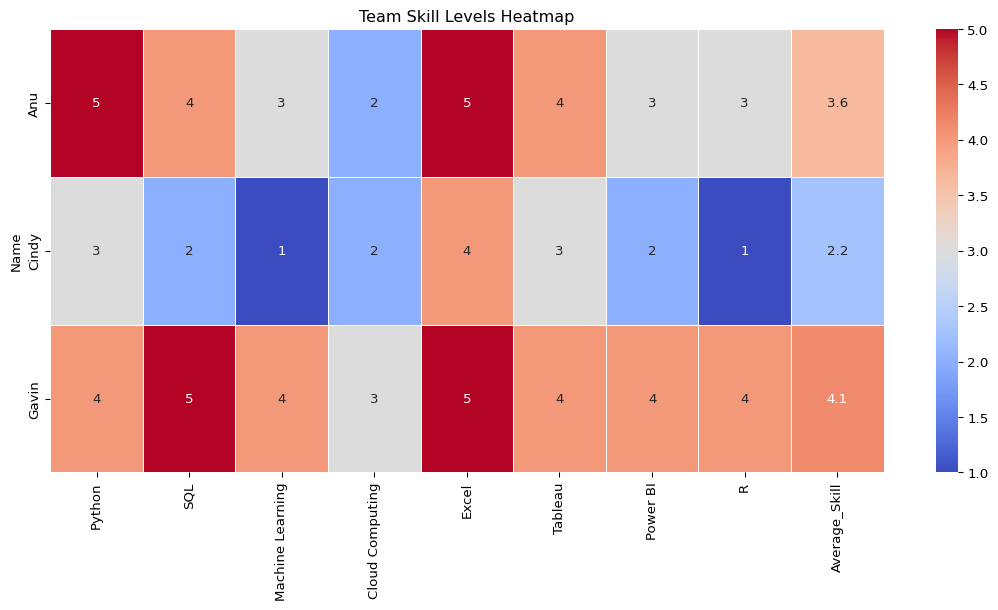
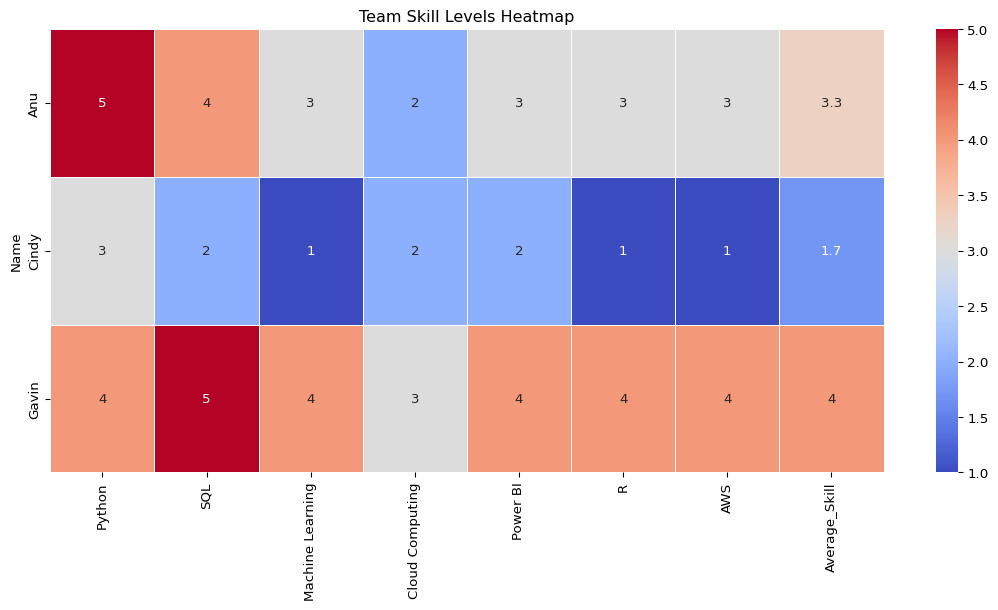
updated skill gap analysis visualization and project output directory

diff --git a/docs/skill_gap_analysis.html b/docs/skill_gap_analysis.html
@@ -212,7 +212,7 @@ pre > code.sourceCode > span > a:first-child::before { text-decoration: underlin
 <section id="team-dataframe" class="level1" data-number="1">
 <h1 data-number="1"><span class="header-section-number">1</span> Team Dataframe</h1>
 <p>Our team conducted an overview of our current technical skills when it comes to Business Analytics and our skill levels. The goal was to understand where the group’s strengths and weaknesses were, and understand how the data that was collected could relate to the data that was observed in the research conducted. This was used to identify strengths and weaknesses for the group while also identifying potential gaps within the group.</p>
-<div id="50641b31" class="cell" data-execution_count="1">
+<div id="d3172800" class="cell" data-execution_count="1">
 <details class="code-fold">
 <summary>Code</summary>
 <div class="sourceCode cell-code" id="cb1"><pre class="sourceCode python code-with-copy"><code class="sourceCode python"><span id="cb1-1"><a href="#cb1-1" aria-hidden="true" tabindex="-1"></a><span class="im">import</span> pandas <span class="im">as</span> pd</span>
@@ -224,55 +224,53 @@ pre > code.sourceCode > span > a:first-child::before { text-decoration: underlin
 <span id="cb1-7"><a href="#cb1-7" aria-hidden="true" tabindex="-1"></a>    <span class="st">"SQL"</span>: [<span class="dv">4</span>, <span class="dv">2</span>, <span class="dv">5</span>],</span>
 <span id="cb1-8"><a href="#cb1-8" aria-hidden="true" tabindex="-1"></a>    <span class="st">"Machine Learning"</span>: [<span class="dv">3</span>, <span class="dv">1</span>, <span class="dv">4</span>],</span>
 <span id="cb1-9"><a href="#cb1-9" aria-hidden="true" tabindex="-1"></a>    <span class="st">"Cloud Computing"</span>: [<span class="dv">2</span>, <span class="dv">2</span>, <span class="dv">3</span>],</span>
-<span id="cb1-10"><a href="#cb1-10" aria-hidden="true" tabindex="-1"></a>    <span class="st">"Excel"</span>: [<span class="dv">5</span>, <span class="dv">4</span>, <span class="dv">5</span>],</span>
-<span id="cb1-11"><a href="#cb1-11" aria-hidden="true" tabindex="-1"></a>    <span class="st">"Tableau"</span>: [<span class="dv">4</span>, <span class="dv">3</span>, <span class="dv">4</span>],</span>
-<span id="cb1-12"><a href="#cb1-12" aria-hidden="true" tabindex="-1"></a>    <span class="st">"Power BI"</span>: [<span class="dv">3</span>, <span class="dv">2</span>, <span class="dv">4</span>],</span>
-<span id="cb1-13"><a href="#cb1-13" aria-hidden="true" tabindex="-1"></a>    <span class="st">"R"</span>: [<span class="dv">3</span>, <span class="dv">1</span>, <span class="dv">4</span>]</span>
-<span id="cb1-14"><a href="#cb1-14" aria-hidden="true" tabindex="-1"></a>}</span>
-<span id="cb1-15"><a href="#cb1-15" aria-hidden="true" tabindex="-1"></a></span>
-<span id="cb1-16"><a href="#cb1-16" aria-hidden="true" tabindex="-1"></a><span class="co"># Create DataFrame and set index</span></span>
-<span id="cb1-17"><a href="#cb1-17" aria-hidden="true" tabindex="-1"></a>df_skills <span class="op">=</span> pd.DataFrame(skills_data).set_index(<span class="st">"Name"</span>)</span>
-<span id="cb1-18"><a href="#cb1-18" aria-hidden="true" tabindex="-1"></a></span>
-<span id="cb1-19"><a href="#cb1-19" aria-hidden="true" tabindex="-1"></a><span class="co"># Ensure all columns are numeric</span></span>
-<span id="cb1-20"><a href="#cb1-20" aria-hidden="true" tabindex="-1"></a>df_skills <span class="op">=</span> df_skills.<span class="bu">apply</span>(pd.to_numeric)</span>
-<span id="cb1-21"><a href="#cb1-21" aria-hidden="true" tabindex="-1"></a></span>
-<span id="cb1-22"><a href="#cb1-22" aria-hidden="true" tabindex="-1"></a><span class="co"># Add average skill score across all tools</span></span>
-<span id="cb1-23"><a href="#cb1-23" aria-hidden="true" tabindex="-1"></a>df_skills[<span class="st">"Average_Skill"</span>] <span class="op">=</span> df_skills.mean(axis<span class="op">=</span><span class="dv">1</span>)</span>
-<span id="cb1-24"><a href="#cb1-24" aria-hidden="true" tabindex="-1"></a></span>
-<span id="cb1-25"><a href="#cb1-25" aria-hidden="true" tabindex="-1"></a><span class="co"># Style with borders and centered text</span></span>
-<span id="cb1-26"><a href="#cb1-26" aria-hidden="true" tabindex="-1"></a>df_styled <span class="op">=</span> df_skills.style.set_table_styles([</span>
-<span id="cb1-27"><a href="#cb1-27" aria-hidden="true" tabindex="-1"></a>    {<span class="st">'selector'</span>: <span class="st">'th, td'</span>, <span class="st">'props'</span>: [(<span class="st">'border'</span>, <span class="st">'1px solid black'</span>),</span>
-<span id="cb1-28"><a href="#cb1-28" aria-hidden="true" tabindex="-1"></a>                                     (<span class="st">'text-align'</span>, <span class="st">'center'</span>)]}</span>
-<span id="cb1-29"><a href="#cb1-29" aria-hidden="true" tabindex="-1"></a>])</span>
-<span id="cb1-30"><a href="#cb1-30" aria-hidden="true" tabindex="-1"></a></span>
-<span id="cb1-31"><a href="#cb1-31" aria-hidden="true" tabindex="-1"></a>df_styled</span></code><button title="Copy to Clipboard" class="code-copy-button"><i class="bi"></i></button></pre></div>
+<span id="cb1-10"><a href="#cb1-10" aria-hidden="true" tabindex="-1"></a>    <span class="st">"Power BI"</span>: [<span class="dv">3</span>, <span class="dv">2</span>, <span class="dv">4</span>],</span>
+<span id="cb1-11"><a href="#cb1-11" aria-hidden="true" tabindex="-1"></a>    <span class="st">"R"</span>: [<span class="dv">3</span>, <span class="dv">1</span>, <span class="dv">4</span>],</span>
+<span id="cb1-12"><a href="#cb1-12" aria-hidden="true" tabindex="-1"></a>    <span class="st">"AWS"</span>: [<span class="dv">3</span>,<span class="dv">1</span>,<span class="dv">4</span>]</span>
+<span id="cb1-13"><a href="#cb1-13" aria-hidden="true" tabindex="-1"></a>}</span>
+<span id="cb1-14"><a href="#cb1-14" aria-hidden="true" tabindex="-1"></a></span>
+<span id="cb1-15"><a href="#cb1-15" aria-hidden="true" tabindex="-1"></a><span class="co"># Create DataFrame and set index</span></span>
+<span id="cb1-16"><a href="#cb1-16" aria-hidden="true" tabindex="-1"></a>df_skills <span class="op">=</span> pd.DataFrame(skills_data).set_index(<span class="st">"Name"</span>)</span>
+<span id="cb1-17"><a href="#cb1-17" aria-hidden="true" tabindex="-1"></a></span>
+<span id="cb1-18"><a href="#cb1-18" aria-hidden="true" tabindex="-1"></a><span class="co"># Ensure all columns are numeric</span></span>
+<span id="cb1-19"><a href="#cb1-19" aria-hidden="true" tabindex="-1"></a>df_skills <span class="op">=</span> df_skills.<span class="bu">apply</span>(pd.to_numeric)</span>
+<span id="cb1-20"><a href="#cb1-20" aria-hidden="true" tabindex="-1"></a></span>
+<span id="cb1-21"><a href="#cb1-21" aria-hidden="true" tabindex="-1"></a><span class="co"># Add average skill score across all tools</span></span>
+<span id="cb1-22"><a href="#cb1-22" aria-hidden="true" tabindex="-1"></a>df_skills[<span class="st">"Average_Skill"</span>] <span class="op">=</span> df_skills.mean(axis<span class="op">=</span><span class="dv">1</span>)</span>
+<span id="cb1-23"><a href="#cb1-23" aria-hidden="true" tabindex="-1"></a></span>
+<span id="cb1-24"><a href="#cb1-24" aria-hidden="true" tabindex="-1"></a><span class="co"># Style with borders and centered text</span></span>
+<span id="cb1-25"><a href="#cb1-25" aria-hidden="true" tabindex="-1"></a>df_styled <span class="op">=</span> df_skills.style.set_table_styles([</span>
+<span id="cb1-26"><a href="#cb1-26" aria-hidden="true" tabindex="-1"></a>    {<span class="st">'selector'</span>: <span class="st">'th, td'</span>, <span class="st">'props'</span>: [(<span class="st">'border'</span>, <span class="st">'1px solid black'</span>),</span>
+<span id="cb1-27"><a href="#cb1-27" aria-hidden="true" tabindex="-1"></a>                                     (<span class="st">'text-align'</span>, <span class="st">'center'</span>)]}</span>
+<span id="cb1-28"><a href="#cb1-28" aria-hidden="true" tabindex="-1"></a>])</span>
+<span id="cb1-29"><a href="#cb1-29" aria-hidden="true" tabindex="-1"></a></span>
+<span id="cb1-30"><a href="#cb1-30" aria-hidden="true" tabindex="-1"></a>df_styled</span></code><button title="Copy to Clipboard" class="code-copy-button"><i class="bi"></i></button></pre></div>
 </details>
-<div class="cell-output cell-output-display" data-execution_count="5">
+<div class="cell-output cell-output-display" data-execution_count="7">
 <div>
 <style type="text/css">
-#T_4b7c6 th {
+#T_bf325 th {
   border: 1px solid black;
   text-align: center;
 }
-#T_4b7c6  td {
+#T_bf325  td {
   border: 1px solid black;
   text-align: center;
 }
 </style>
 
-<table id="T_4b7c6" data-quarto-postprocess="true" class="table table-sm table-striped small">
+<table id="T_bf325" data-quarto-postprocess="true" class="table table-sm table-striped small">
 <thead>
 <tr class="header">
 <th class="blank level0" data-quarto-table-cell-role="th">&nbsp;</th>
-<th id="T_4b7c6_level0_col0" class="col_heading level0 col0" data-quarto-table-cell-role="th">Python</th>
-<th id="T_4b7c6_level0_col1" class="col_heading level0 col1" data-quarto-table-cell-role="th">SQL</th>
-<th id="T_4b7c6_level0_col2" class="col_heading level0 col2" data-quarto-table-cell-role="th">Machine Learning</th>
-<th id="T_4b7c6_level0_col3" class="col_heading level0 col3" data-quarto-table-cell-role="th">Cloud Computing</th>
-<th id="T_4b7c6_level0_col4" class="col_heading level0 col4" data-quarto-table-cell-role="th">Excel</th>
-<th id="T_4b7c6_level0_col5" class="col_heading level0 col5" data-quarto-table-cell-role="th">Tableau</th>
-<th id="T_4b7c6_level0_col6" class="col_heading level0 col6" data-quarto-table-cell-role="th">Power BI</th>
-<th id="T_4b7c6_level0_col7" class="col_heading level0 col7" data-quarto-table-cell-role="th">R</th>
-<th id="T_4b7c6_level0_col8" class="col_heading level0 col8" data-quarto-table-cell-role="th">Average_Skill</th>
+<th id="T_bf325_level0_col0" class="col_heading level0 col0" data-quarto-table-cell-role="th">Python</th>
+<th id="T_bf325_level0_col1" class="col_heading level0 col1" data-quarto-table-cell-role="th">SQL</th>
+<th id="T_bf325_level0_col2" class="col_heading level0 col2" data-quarto-table-cell-role="th">Machine Learning</th>
+<th id="T_bf325_level0_col3" class="col_heading level0 col3" data-quarto-table-cell-role="th">Cloud Computing</th>
+<th id="T_bf325_level0_col4" class="col_heading level0 col4" data-quarto-table-cell-role="th">Power BI</th>
+<th id="T_bf325_level0_col5" class="col_heading level0 col5" data-quarto-table-cell-role="th">R</th>
+<th id="T_bf325_level0_col6" class="col_heading level0 col6" data-quarto-table-cell-role="th">AWS</th>
+<th id="T_bf325_level0_col7" class="col_heading level0 col7" data-quarto-table-cell-role="th">Average_Skill</th>
 </tr>
 <tr class="odd">
 <th class="index_name level0" data-quarto-table-cell-role="th">Name</th>
@@ -284,52 +282,48 @@ pre > code.sourceCode > span > a:first-child::before { text-decoration: underlin
 <th class="blank col5" data-quarto-table-cell-role="th">&nbsp;</th>
 <th class="blank col6" data-quarto-table-cell-role="th">&nbsp;</th>
 <th class="blank col7" data-quarto-table-cell-role="th">&nbsp;</th>
-<th class="blank col8" data-quarto-table-cell-role="th">&nbsp;</th>
 </tr>
 </thead>
 <tbody>
 <tr class="odd">
-<td id="T_4b7c6_level0_row0" class="row_heading level0 row0" data-quarto-table-cell-role="th">Anu</td>
-<td id="T_4b7c6_row0_col0" class="data row0 col0">5</td>
-<td id="T_4b7c6_row0_col1" class="data row0 col1">4</td>
-<td id="T_4b7c6_row0_col2" class="data row0 col2">3</td>
-<td id="T_4b7c6_row0_col3" class="data row0 col3">2</td>
-<td id="T_4b7c6_row0_col4" class="data row0 col4">5</td>
-<td id="T_4b7c6_row0_col5" class="data row0 col5">4</td>
-<td id="T_4b7c6_row0_col6" class="data row0 col6">3</td>
-<td id="T_4b7c6_row0_col7" class="data row0 col7">3</td>
-<td id="T_4b7c6_row0_col8" class="data row0 col8">3.625000</td>
+<td id="T_bf325_level0_row0" class="row_heading level0 row0" data-quarto-table-cell-role="th">Anu</td>
+<td id="T_bf325_row0_col0" class="data row0 col0">5</td>
+<td id="T_bf325_row0_col1" class="data row0 col1">4</td>
+<td id="T_bf325_row0_col2" class="data row0 col2">3</td>
+<td id="T_bf325_row0_col3" class="data row0 col3">2</td>
+<td id="T_bf325_row0_col4" class="data row0 col4">3</td>
+<td id="T_bf325_row0_col5" class="data row0 col5">3</td>
+<td id="T_bf325_row0_col6" class="data row0 col6">3</td>
+<td id="T_bf325_row0_col7" class="data row0 col7">3.285714</td>
 </tr>
 <tr class="even">
-<td id="T_4b7c6_level0_row1" class="row_heading level0 row1" data-quarto-table-cell-role="th">Cindy</td>
-<td id="T_4b7c6_row1_col0" class="data row1 col0">3</td>
-<td id="T_4b7c6_row1_col1" class="data row1 col1">2</td>
-<td id="T_4b7c6_row1_col2" class="data row1 col2">1</td>
-<td id="T_4b7c6_row1_col3" class="data row1 col3">2</td>
-<td id="T_4b7c6_row1_col4" class="data row1 col4">4</td>
-<td id="T_4b7c6_row1_col5" class="data row1 col5">3</td>
-<td id="T_4b7c6_row1_col6" class="data row1 col6">2</td>
-<td id="T_4b7c6_row1_col7" class="data row1 col7">1</td>
-<td id="T_4b7c6_row1_col8" class="data row1 col8">2.250000</td>
+<td id="T_bf325_level0_row1" class="row_heading level0 row1" data-quarto-table-cell-role="th">Cindy</td>
+<td id="T_bf325_row1_col0" class="data row1 col0">3</td>
+<td id="T_bf325_row1_col1" class="data row1 col1">2</td>
+<td id="T_bf325_row1_col2" class="data row1 col2">1</td>
+<td id="T_bf325_row1_col3" class="data row1 col3">2</td>
+<td id="T_bf325_row1_col4" class="data row1 col4">2</td>
+<td id="T_bf325_row1_col5" class="data row1 col5">1</td>
+<td id="T_bf325_row1_col6" class="data row1 col6">1</td>
+<td id="T_bf325_row1_col7" class="data row1 col7">1.714286</td>
 </tr>
 <tr class="odd">
-<td id="T_4b7c6_level0_row2" class="row_heading level0 row2" data-quarto-table-cell-role="th">Gavin</td>
-<td id="T_4b7c6_row2_col0" class="data row2 col0">4</td>
-<td id="T_4b7c6_row2_col1" class="data row2 col1">5</td>
-<td id="T_4b7c6_row2_col2" class="data row2 col2">4</td>
-<td id="T_4b7c6_row2_col3" class="data row2 col3">3</td>
-<td id="T_4b7c6_row2_col4" class="data row2 col4">5</td>
-<td id="T_4b7c6_row2_col5" class="data row2 col5">4</td>
-<td id="T_4b7c6_row2_col6" class="data row2 col6">4</td>
-<td id="T_4b7c6_row2_col7" class="data row2 col7">4</td>
-<td id="T_4b7c6_row2_col8" class="data row2 col8">4.125000</td>
+<td id="T_bf325_level0_row2" class="row_heading level0 row2" data-quarto-table-cell-role="th">Gavin</td>
+<td id="T_bf325_row2_col0" class="data row2 col0">4</td>
+<td id="T_bf325_row2_col1" class="data row2 col1">5</td>
+<td id="T_bf325_row2_col2" class="data row2 col2">4</td>
+<td id="T_bf325_row2_col3" class="data row2 col3">3</td>
+<td id="T_bf325_row2_col4" class="data row2 col4">4</td>
+<td id="T_bf325_row2_col5" class="data row2 col5">4</td>
+<td id="T_bf325_row2_col6" class="data row2 col6">4</td>
+<td id="T_bf325_row2_col7" class="data row2 col7">4.000000</td>
 </tr>
 </tbody>
 </table>
 </div>
 </div>
 </div>
-<div id="6c4276a1" class="cell" data-execution_count="2">
+<div id="d0804f13" class="cell" data-execution_count="2">
 <details class="code-fold">
 <summary>Code</summary>
 <div class="sourceCode cell-code" id="cb2"><pre class="sourceCode python code-with-copy"><code class="sourceCode python"><span id="cb2-1"><a href="#cb2-1" aria-hidden="true" tabindex="-1"></a><span class="im">import</span> seaborn <span class="im">as</span> sns</span>
